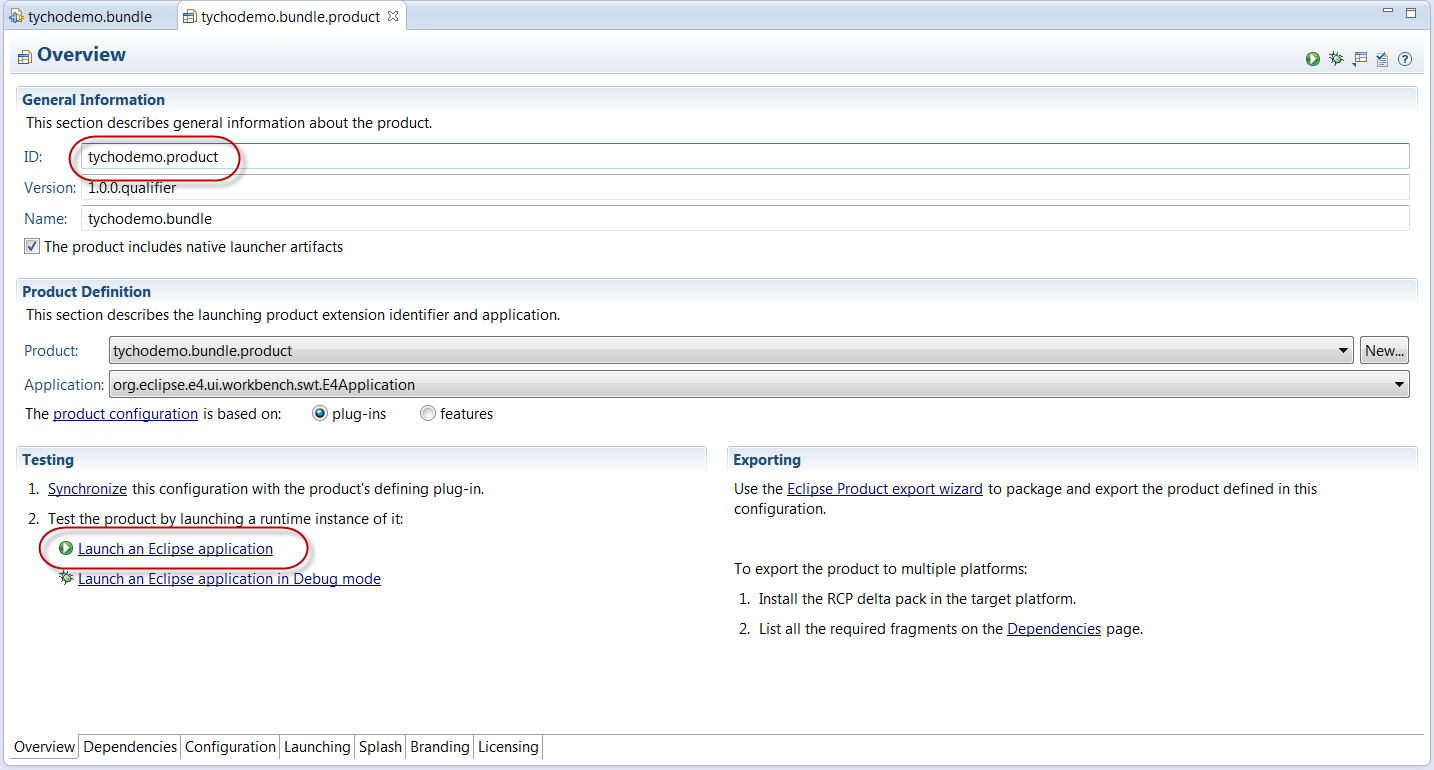
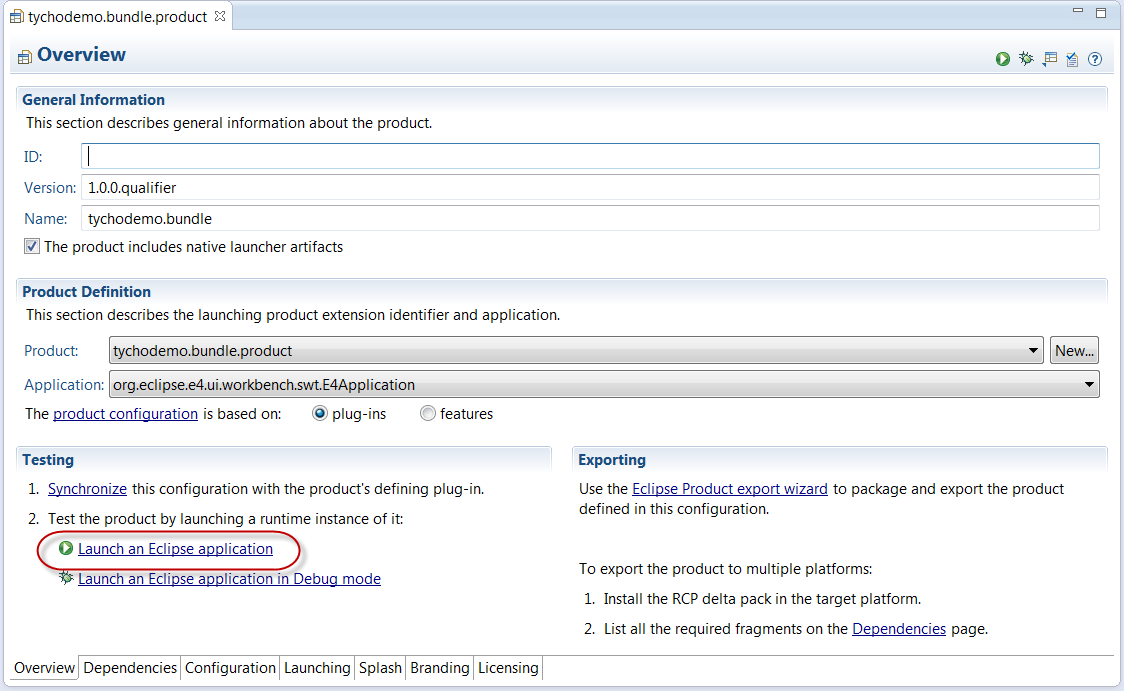
Add woraround for m2e local repo refresh issue
... and remove step to enter product ID
(will be done in exercise 5)

Changed region(s): [[0.0, 0.0, 1.0, 1.0]]

diff --git a/exercises/Exercise_01_Create_RCP_Bundle/README.html b/exercises/Exercise_01_Create_RCP_Bundle/README.html
@@ -32,7 +32,7 @@ We will compile and run the plugin from the IDE and then show how to build it wi
 <li>Run the application to check if it works:
 <ul>
  <li>Open the Product definition file <tt>tychodemo.bundle.product</tt>, tab "Overview"</li>
- <li>Enter ID "tychodemo.product" and press "Launch an Eclipse application"<br/>
+ <li>Press "Launch an Eclipse application"<br/>
  <img src="resources/product_1.png"/>
  </li>
  
@@ -109,10 +109,10 @@ Note: The local p2 repository we provide on the USB stick is a subset mirrored f
 Using the local p2 repository avoids network problems during the tutorial and works around one open <a href="https://bugs.eclipse.org/bugs/show_bug.cgi?id=355433 ">bug in the Juno p2 repo</a>.
 	
 </li>
-
-<li> To be independent of network access to <tt><a href="http://repo1.maven.org">Maven Central (http://repo1.maven.org)</a></tt>, use the pre-filled local maven repository from the USB stick:<br/>
+<li> To be independent of network access to <tt><a href="http://repo1.maven.org">Maven Central (http://repo1.maven.org)</a></tt>, we will use the pre-filled local maven repository from the USB stick:<br/>
 Copy the content of folder <tt>tutorial/maven_repository</tt> to <tt>~/.m2/repository/</tt> (Linux/Mac) or <tt>%USERPROFILE%/.m2/repository/</tt> (Windows).
 </li>
+
 </ul>
 </li>
 
@@ -129,6 +129,7 @@ Copy the content of folder <tt>tutorial/maven_repository</tt> to <tt>~/.m2/repos
 <img src="resources/build_success.png"/>
   </li>
 </ol>
+<li>NOTE: If the "Unknown packaging" error markers do not disappear after successful build, you may have to restart your IDE and right-click on the project, select <tt>Maven > Update Project...</tt>. Select all projects and click <tt>OK</tt>.
 
 <p align="center">
  <a href="../../README.html">TOC</a> | <a href="../Exercise_02_Add_Test_Fragment/tychodemo.parent/README.html">Next Exercise&gt;</a> 
